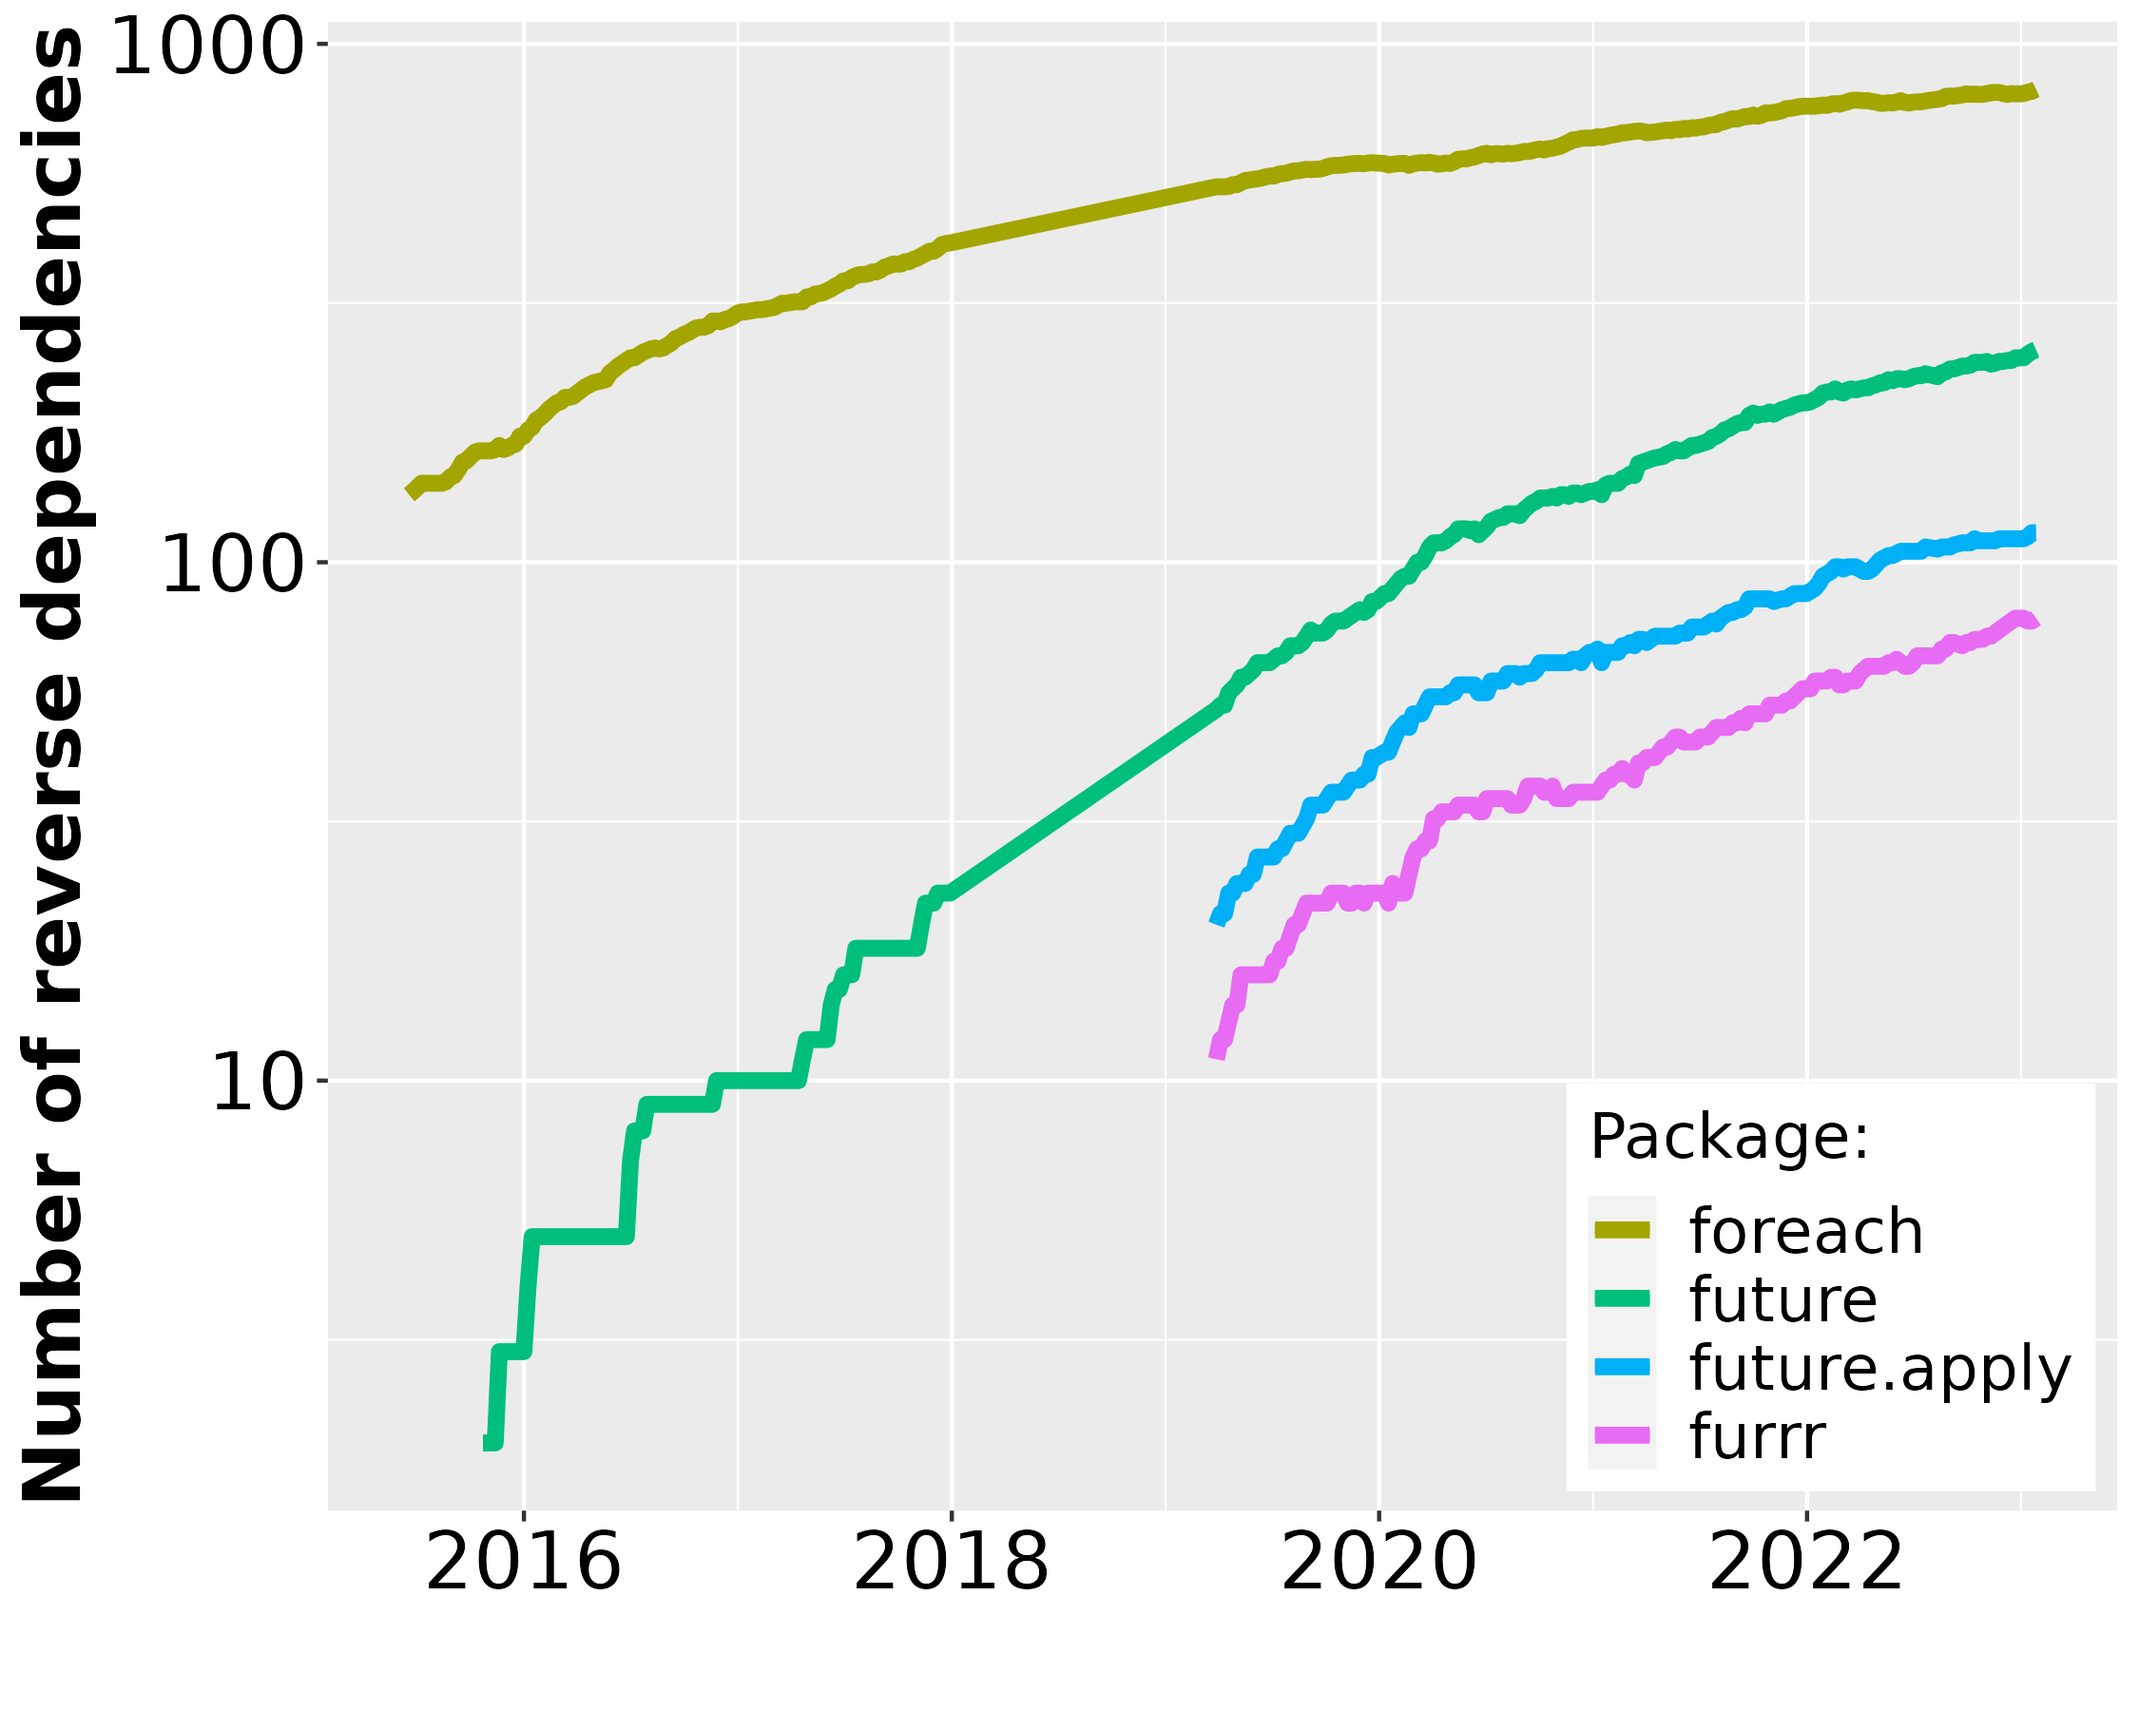
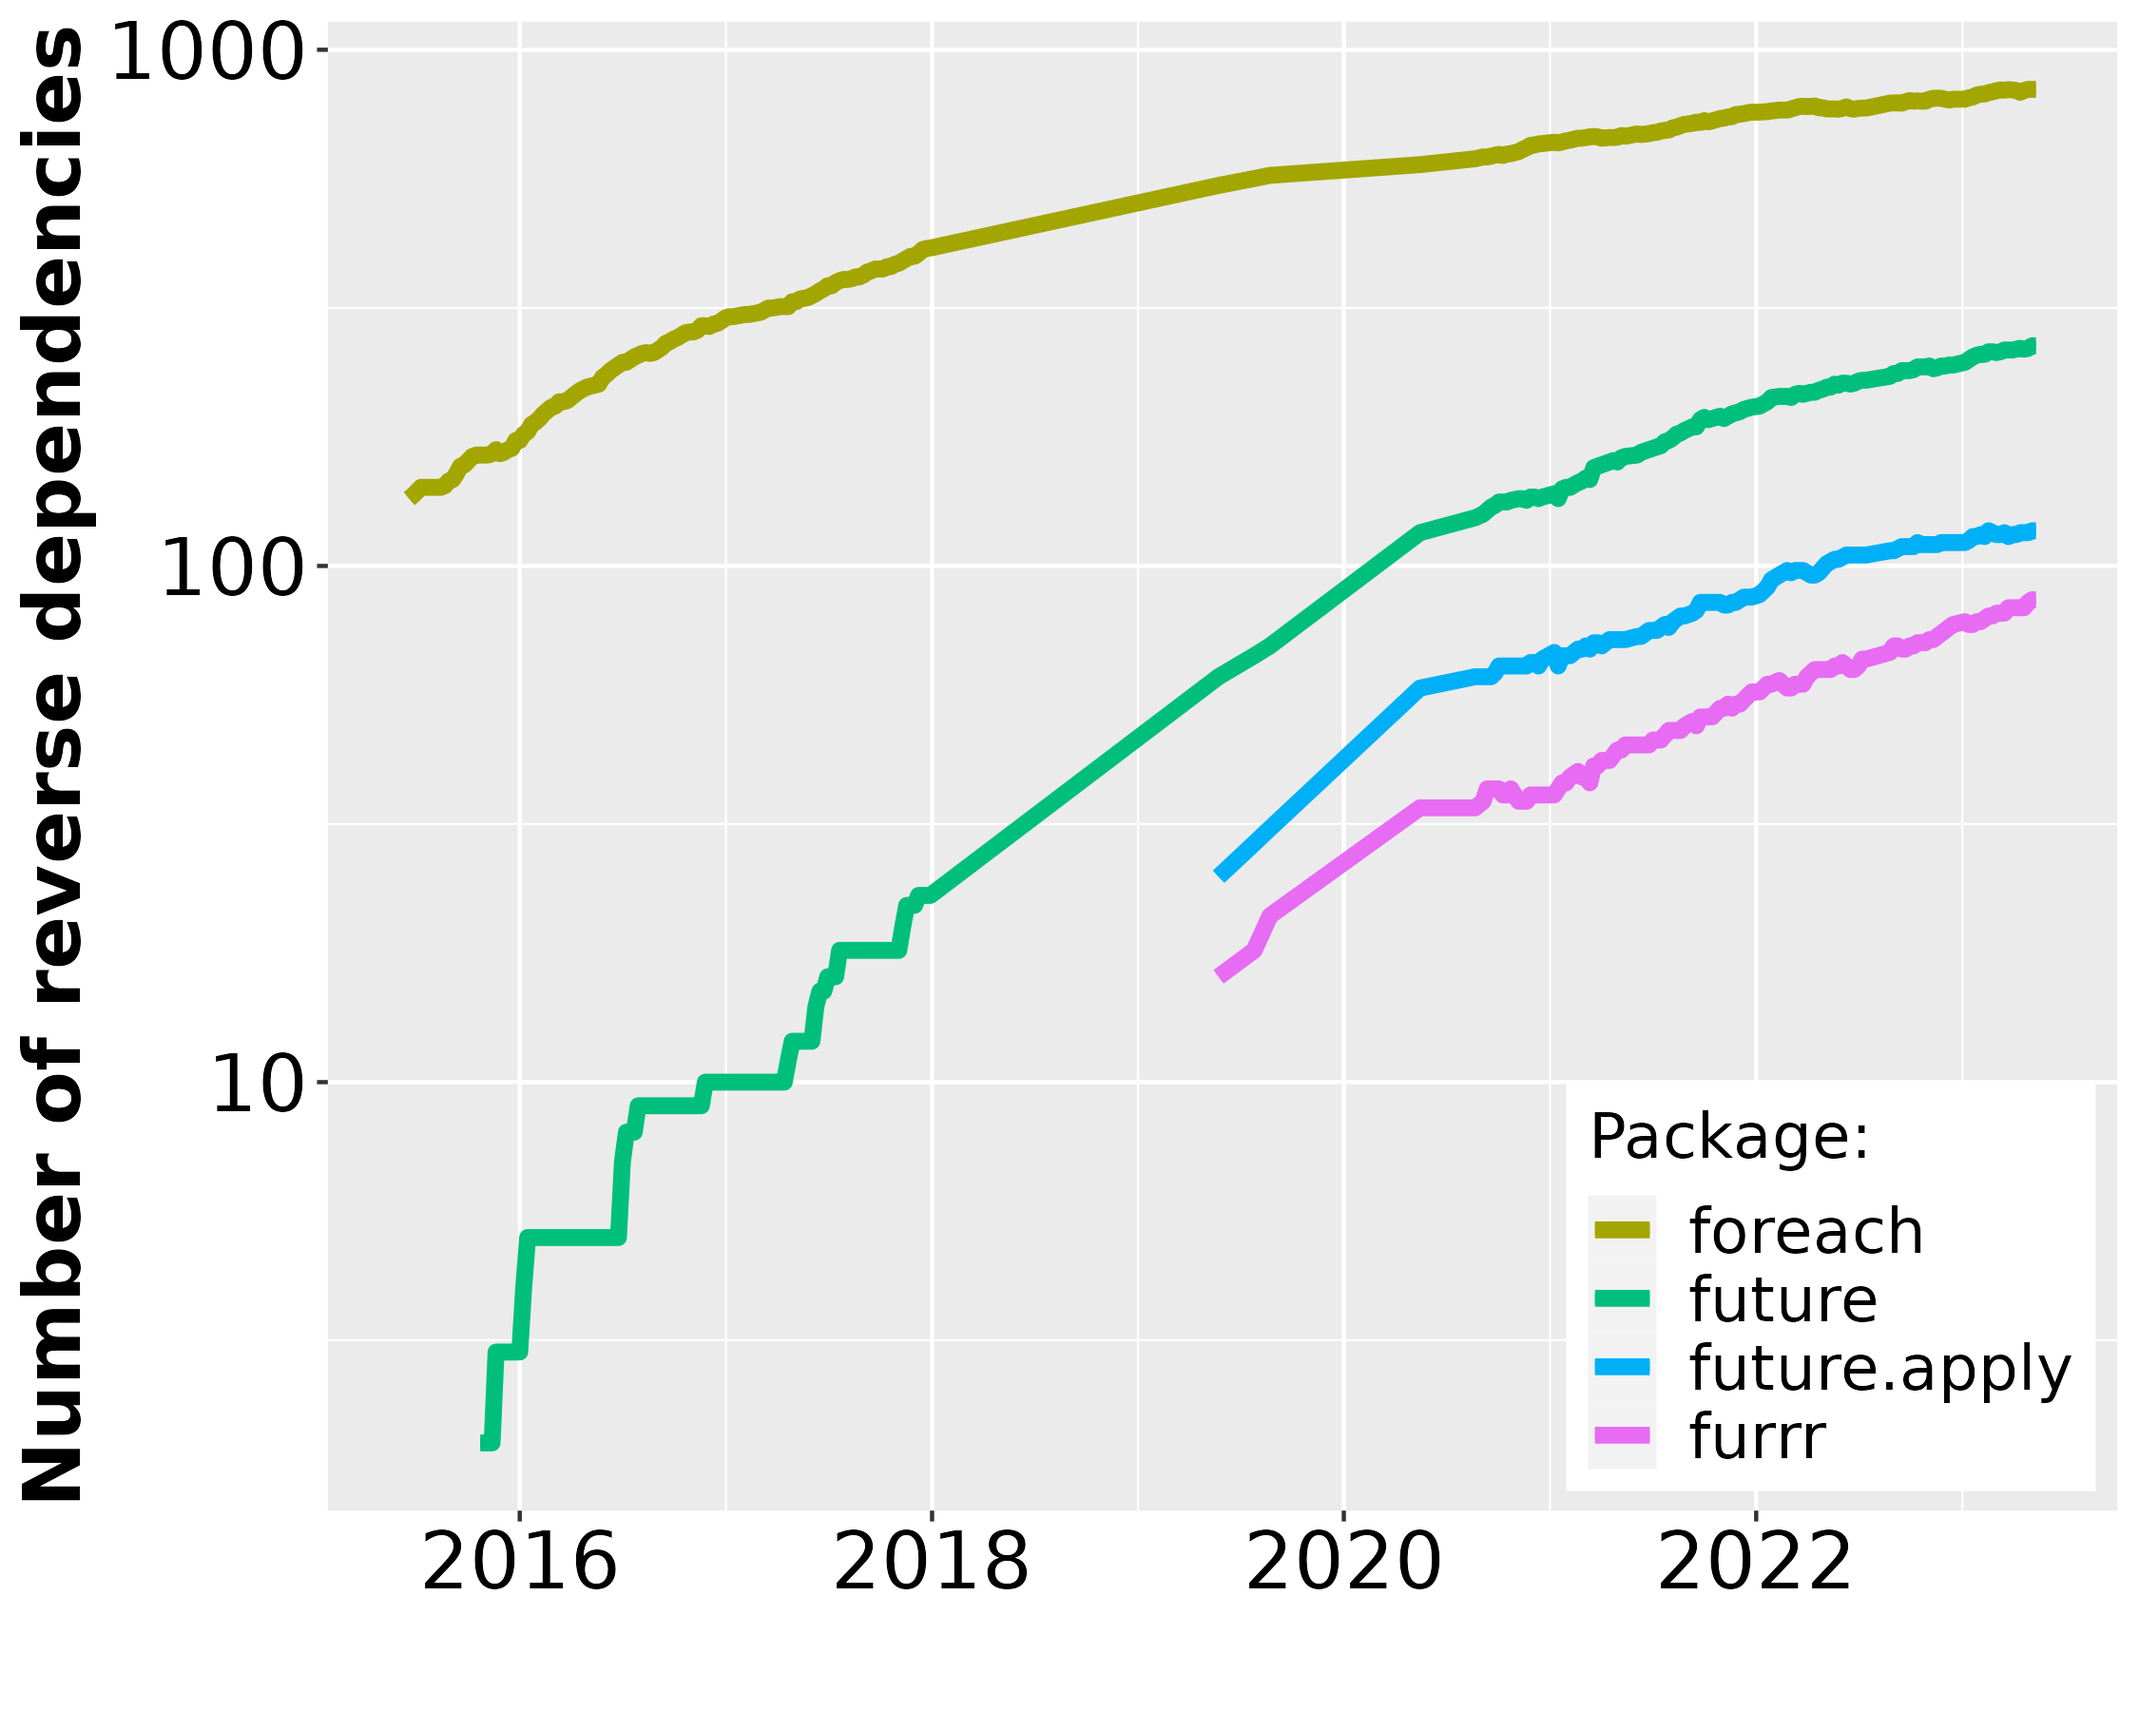
Update statistics

diff --git a/docs/statistics.html b/docs/statistics.html
@@ -1925,14 +1925,14 @@ Packages &amp; Docs
 <div class="d-article">
 <p>Since the first CRAN release of <strong>future</strong> in June 2015, its uptake
 among end-users and package developers have grown steadily. During
-January 2023, <strong>future</strong> was among the top-0.9% most downloaded
-package on CRAN (Figure 1) and there are 257 packages on CRAN that
+April 2023, <strong>future</strong> was among the top-0.9% most downloaded
+package on CRAN (Figure 1) and there are 265 packages on CRAN that
 directly depend on it (Figure 2). For map-reduce parallelization
-packages <strong>future.apply</strong> (top-1.3% most downloaded) and and <strong>furrr</strong>
-(top 1.5%), the corresponding number of packages are 114 and 78,
+packages <strong>future.apply</strong> (top-1.2% most downloaded) and and <strong>furrr</strong>
+(top 1.6%), the corresponding number of packages are 116 and 85,
 respectively. If we consider recursive dependencies too, that is,
 packages that use the <strong>future</strong> package either directly or indirectly
-via another package, then 85% of all ~19,000 CRAN packages may rely on
+via another package, then 85% of all ~19,500 CRAN packages may rely on
 the future framework for their processing.</p>
 <!--
 pkgs <- revdepcheck:::cran_revdeps("future")
@@ -1940,7 +1940,7 @@ pkgs <- tools::package_dependencies("future", which="all", reverse=TRUE, recursi
 -->
 <div style="width: 100%; margin-bottom: 3ex;">
 <center>
-<img src="figures/downloads_over_time_on_CRAN.png" alt="A line graph with 'Date' on the horizontal axis and 'Download rates on CRAN (four-week averages)' on the vertical axis. The dates goes from mid 2015 to beginning of 2023 and the ranks for 0 to 20%. Lines for package 'foreach', 'future', 'future.apply', and 'furrr' are displayed in different colors. The foreach curve is the highest but decreases slowly, whereas the other three are rapidly increasing toward the level of foreach." style="width: 70%;"/>
+<img src="figures/downloads_over_time_on_CRAN.png" alt="A line graph with 'Date' on the horizontal axis and 'Download rates on CRAN (four-week averages)' on the vertical axis. The dates goes from mid 2015 to mid 2023 and the ranks for 0 to 20%. Lines for package 'foreach', 'future', 'future.apply', and 'furrr' are displayed in different colors. The foreach curve is the highest but decreases slowly, whereas the other three are rapidly increasing toward the level of foreach." style="width: 70%;"/>
 </center>
 <p><em></p>
 <p>Figure 1: The download percentile ranks for <strong>future</strong>,
@@ -1956,8 +1956,8 @@ package installations.</p>
 <p></em></p>
 </div>
 <p>As a reference, the popular <strong>foreach</strong>, released in 2009, was among
-the top-1.0% most downloaded packages during the same period and it
-has 817 reverse package dependencies on CRAN. The number of users
+the top-0.9% most downloaded packages during the same period and it
+has 838 reverse package dependencies on CRAN. The number of users
 that download <strong>future</strong> has grown rapidly whereas the the same number
 has slowly decreased for the <strong>foreach</strong> package (Figure 1).
 Similarly, the number of reverse package dependencies on <strong>future</strong>
